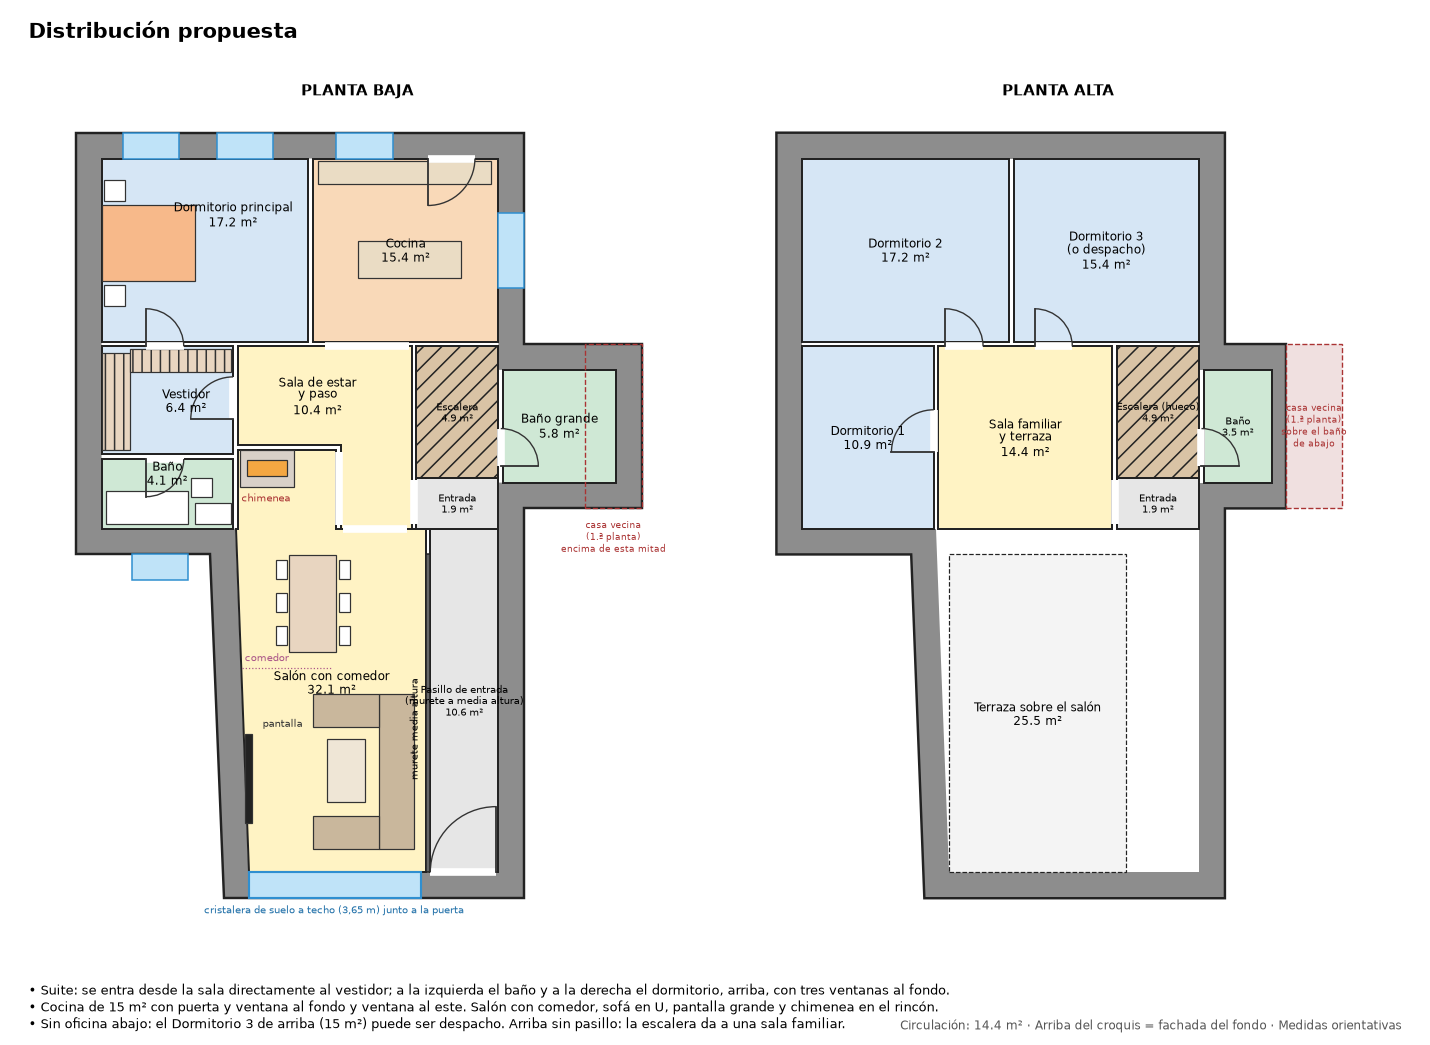
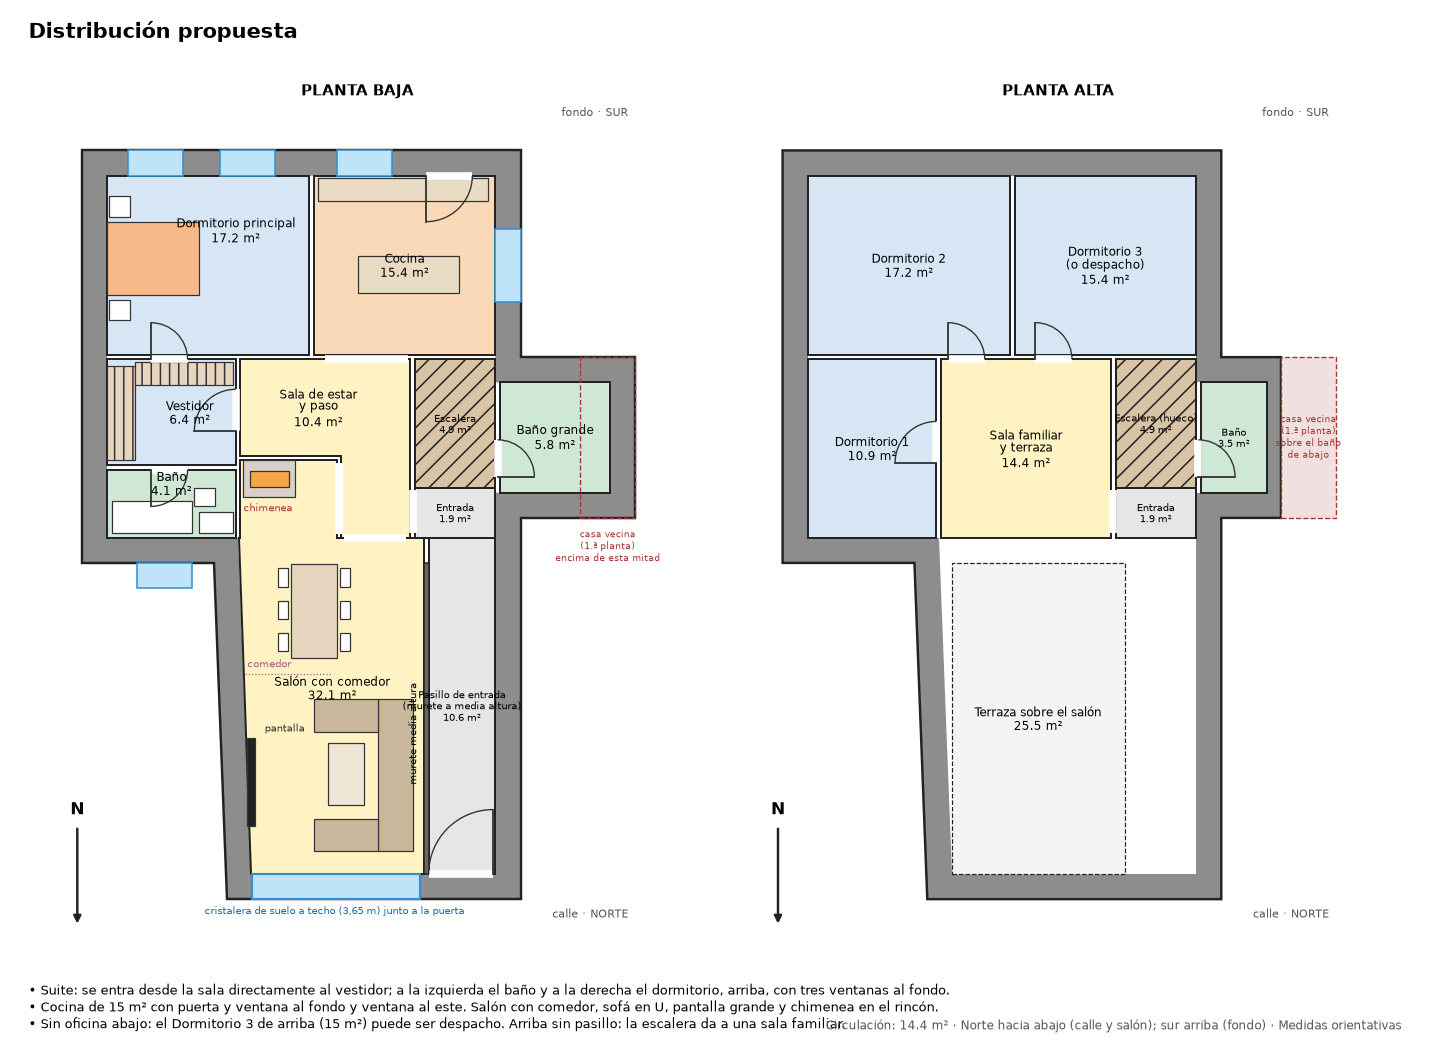
Orientar la distribución: norte hacia abajo (calle y salón), sur arriba
Claude-Session: https://claude.ai/code/session_01GrFzVPJDRJqirwnmNdffa5

diff --git a/casa3d/opciones.py b/casa3d/opciones.py
@@ -1,5 +1,5 @@
 """Distribución propuesta (esquema en planta). Coordenadas del croquis en metros; muros existentes de 0,55 m.
-Arriba del croquis = fachada del fondo (ventanas, cocina, dormitorio principal); abajo = calle y entrada."""
+Abajo del croquis = NORTE (calle, entrada y salón); arriba = SUR (fachada del fondo: cocina y dormitorio principal)."""
 import math
 import matplotlib; matplotlib.use("Agg")
 import matplotlib.pyplot as plt
@@ -104,7 +104,9 @@ def dibujar(ax, rooms, doors, planta, abiertos=()):
         for (x, y, w) in VENTANAS_E: ax.add_patch(Rectangle((x, y), 0.55, w, fc="#bfe3f8", ec="#2f8fd0", lw=1.0, zorder=6))
     for (x0, y0, x1, y1) in abiertos: ax.plot([x0, x1], [y0, y1], color="white", lw=5, solid_capstyle="butt", zorder=7)
     for d in doors: door(ax, d)
-    ax.set_xlim(-0.6, 12.6); ax.set_ylim(-0.9, 16.9); ax.set_aspect("equal"); ax.axis("off")
+    ax.annotate("", xy=(-0.1, -0.6), xytext=(-0.1, 1.6), arrowprops=dict(arrowstyle="-|>", color="#222", lw=1.6), annotation_clip=False)
+    ax.text(-0.1, 1.85, "N", ha="center", fontsize=11, weight="bold"); ax.text(11.9, -0.4, "calle · NORTE", ha="right", fontsize=7, color="#555"); ax.text(11.9, 17.05, "fondo · SUR", ha="right", fontsize=7, color="#555")
+    ax.set_xlim(-0.6, 12.6); ax.set_ylim(-0.9, 17.3); ax.set_aspect("equal"); ax.axis("off")
     ax.set_title("PLANTA BAJA" if planta == "PB" else "PLANTA ALTA", fontsize=10, weight="bold")
     return circ, total
 
@@ -118,6 +120,6 @@ if __name__ == "__main__":
     ax1 = fig.add_axes([0.02, 0.10, 0.46, 0.80]); ax2 = fig.add_axes([0.51, 0.10, 0.46, 0.80])
     c1, t1 = dibujar(ax1, PB, PB_DOORS, "PB", PB_OPEN); c2, t2 = dibujar(ax2, PA, PA_DOORS, "PA", PA_OPEN)
     fig.text(0.02, 0.06, "\n".join("• " + t for t in IDEAS), fontsize=8.6, va="top")
-    fig.text(0.98, 0.012, f"Circulación: {c1 + c2:.1f} m² · Arriba del croquis = fachada del fondo · Medidas orientativas", fontsize=8, va="bottom", ha="right", color="#555")
+    fig.text(0.98, 0.012, f"Circulación: {c1 + c2:.1f} m² · Norte hacia abajo (calle y salón); sur arriba (fondo) · Medidas orientativas", fontsize=8, va="bottom", ha="right", color="#555")
     fig.savefig("distribucion.png", dpi=110)
     print(f"circulación {c1 + c2:.1f} m²; útil PB {t1:.1f}, PA {t2:.1f}")
